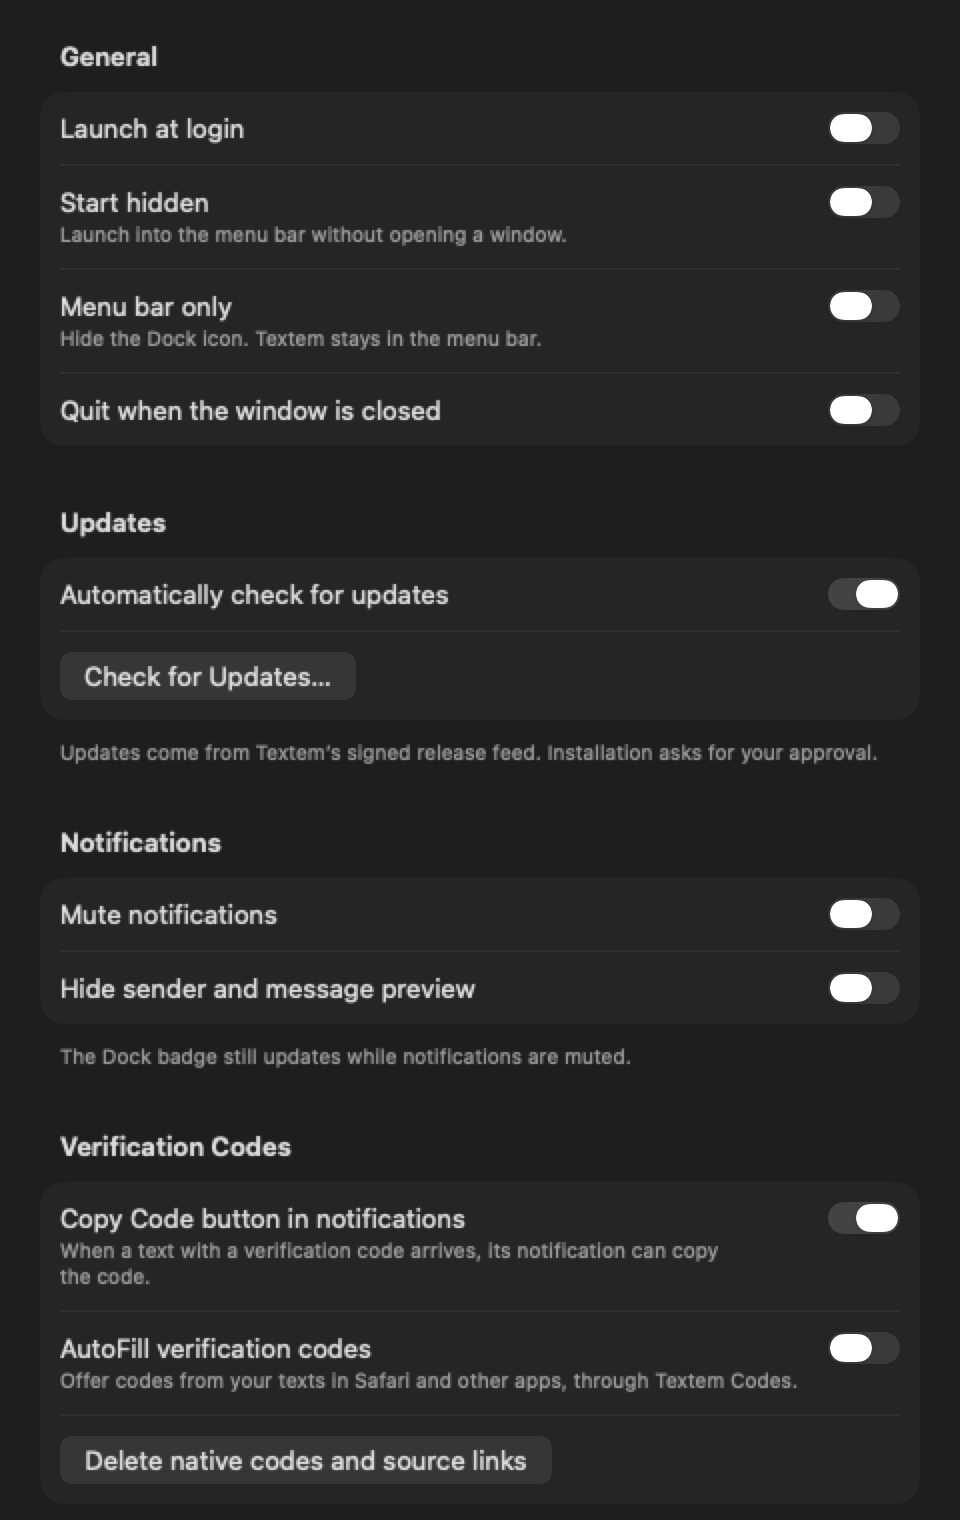
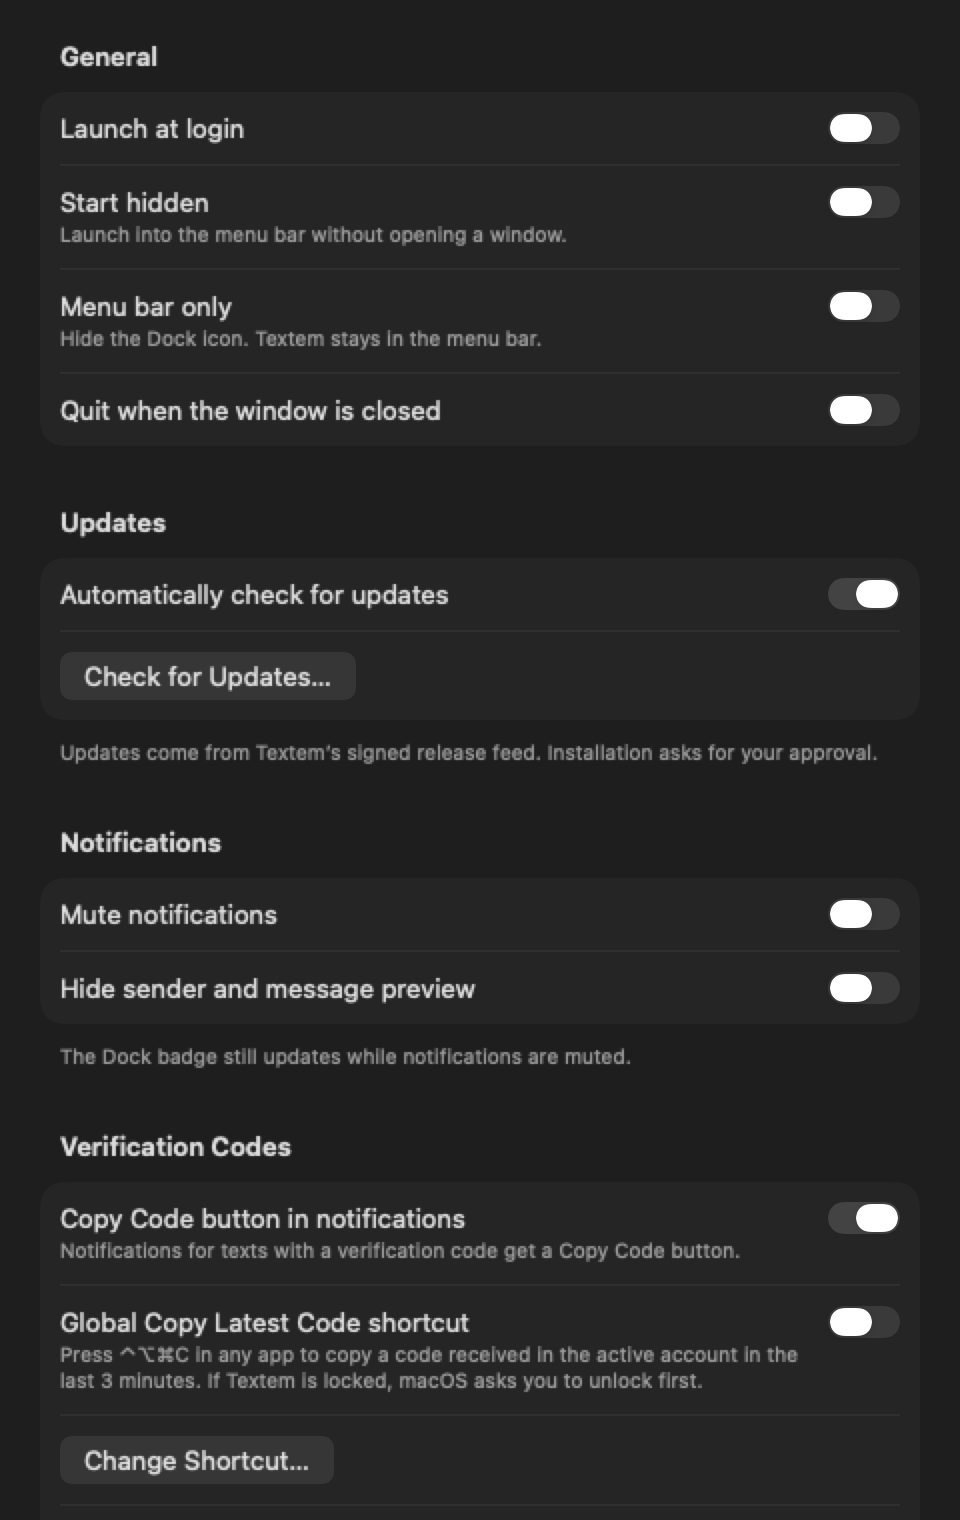
docs: describe the 1.0b5 App Lock changes (hold until 1.0b5 ships)

diff --git a/docs/docs/privacy-offline/index.html b/docs/docs/privacy-offline/index.html
@@ -19,8 +19,14 @@
 <ul><li><strong>Privacy &gt; Blur message previews</strong>: previews and messages are blurred until you hover over them.</li>
 <li><strong>Privacy &gt; Hide avatars</strong>: removes contact pictures.</li>
 <li><strong>Notifications &gt; Hide sender and message preview</strong>: banners say only "New message".</li></ul>
-<p>These change only what's shown on your Mac. Read receipts and what you send are unaffected.</p></section><section id="lock-the-textem-window"><h2>Lock the Textem window</h2><p>In <strong>Settings &gt; Privacy</strong>, turn on <strong>Require Touch ID or your Mac password to open Textem</strong>. Textem locks at launch and when your Mac sleeps or locks. You can also choose to lock immediately when you switch away, or after five minutes of inactivity in Textem.</p>
-<p>Choose <strong>Lock Textem</strong> from the app menu or the Textem menu-bar icon to lock immediately. On return, Textem can prompt for Touch ID. Use <strong>Use Mac Password…</strong> if macOS requires your password. Notification previews are hidden while locked. The lock protects the Textem window; your session and saved files rely on your Mac login and FileVault.</p></section><section id="what-textem-connects-to"><h2>What Textem connects to</h2><p>Textem shows Google's own Messages for web and talks to Google. It adds no analytics, telemetry, accounts or relay servers, and your session is stored on your Mac. The only other connection is the daily update check to textem.scarcrux.com, which you can turn off in <strong>Settings &gt; Updates</strong>. To keep Google's sign-in working inside an app, Textem turns off WebKit's cross-site tracking prevention for its own Google session; this doesn't affect Safari.</p></section><section id="offline-mode-experimental"><h2>Offline Mode <span class="badge">Experimental</span></h2><p><strong>View &gt; Offline Mode</strong> pauses Google Messages and shows what Textem has saved on this Mac. Choose <strong>Go Online</strong> to return. The choice is remembered across restarts.</p>
+<p>These change only what's shown on your Mac. Read receipts and what you send are unaffected.</p></section><section id="lock-the-textem-window"><h2>Lock the Textem window</h2><p>In <strong>Settings &gt; App Lock</strong>, turn on <strong>Require Touch ID or your Mac password to open Textem</strong> (on a Mac without Touch ID it asks for your Mac password). Textem locks at launch and when your Mac sleeps or locks. You can also choose to lock immediately when you switch away, or after five minutes of inactivity in Textem.</p>
+<p>Choose <strong>Lock Textem</strong> from the app menu or the Textem menu-bar icon to lock immediately. To unlock, choose <strong>Use Touch ID</strong>, or <strong>Use Mac Password…</strong> if macOS requires your password.</p>
+<p>While Textem is locked:</p>
+<ul><li>Its existing notifications are cleared, and new ones say only "Unlock Textem to see details."</li>
+<li>Locked notifications offer <strong>Reply</strong> (which asks you to unlock before sending) but not <strong>Copy Code</strong>, so a banner never reveals that a code arrived.</li>
+<li>The global copy-code shortcut asks macOS to unlock first, without bringing Textem to the front.</li>
+<li>The unread count in the Dock and menu bar stays visible.</li></ul>
+<p>The lock protects the Textem window. Your session and saved files rely on your Mac login and FileVault.</p></section><section id="what-textem-connects-to"><h2>What Textem connects to</h2><p>Textem shows Google's own Messages for web and talks to Google. It adds no analytics, telemetry, accounts or relay servers, and your session is stored on your Mac. The only other connection is the daily update check to textem.scarcrux.com, which you can turn off in <strong>Settings &gt; Updates</strong>. To keep Google's sign-in working inside an app, Textem turns off WebKit's cross-site tracking prevention for its own Google session; this doesn't affect Safari.</p></section><section id="offline-mode-experimental"><h2>Offline Mode <span class="badge">Experimental</span></h2><p><strong>View &gt; Offline Mode</strong> pauses Google Messages and shows what Textem has saved on this Mac. Choose <strong>Go Online</strong> to return. The choice is remembered across restarts.</p>
 <p>Today it shows phone history and pictures saved through Textem's developer Android companion; without the companion it's empty. Ordinary conversations aren't stored offline.</p></section><aside class="related"><h2>Related</h2><ul><li><a href="/docs/notifications/">Notifications and quick replies</a></li><li><a href="/docs/codes/">Verification codes</a></li><li><a href="/docs/troubleshooting/">Troubleshooting and updating</a></li></ul></aside></article></main><footer><p>Textem documentation · Updated 2026-11-24</p>
 <p>Unofficial. Not affiliated with, endorsed by, or sponsored by Google. “Google Messages” is a trademark of Google LLC.</p>
 <a href="/docs/">Documentation</a> · <a href="/">Back to Textem</a> · <a href="https://github.com/Scarcrux/Textem">GitHub</a> · <a href="https://github.com/Scarcrux/Textem/issues">Report a problem</a> · © 2026 <a href="https://scarcrux.com">Scarcrux LLC</a></footer></div></div>

diff --git a/docs/index.html b/docs/index.html
@@ -200,7 +200,7 @@
         <figure class="shot tall">
           <picture>
             <source srcset="media/settings-dark.png" media="(prefers-color-scheme: dark)">
-            <img src="media/settings-light.png" width="480" height="760" alt="Textem Settings: launch at login, start hidden, menu bar only, updates, notifications and verification codes">
+            <img src="media/settings-light.png" width="480" height="760" alt="Textem Settings: launch at login, start hidden, menu bar only, updates, notifications, and verification codes including the global copy-code shortcut">
           </picture>
           <figcaption>Textem’s Settings window.</figcaption>
         </figure>

diff --git a/tools/gen-docs.py b/tools/gen-docs.py
@@ -149,8 +149,14 @@ PAGES = {
 <li><strong>Notifications &gt; Hide sender and message preview</strong>: banners say only "New message".</li></ul>
 <p>These change only what's shown on your Mac. Read receipts and what you send are unaffected.</p>"""),
     ("Lock the Textem window", """
-<p>In <strong>Settings &gt; Privacy</strong>, turn on <strong>Require Touch ID or your Mac password to open Textem</strong>. Textem locks at launch and when your Mac sleeps or locks. You can also choose to lock immediately when you switch away, or after five minutes of inactivity in Textem.</p>
-<p>Choose <strong>Lock Textem</strong> from the app menu or the Textem menu-bar icon to lock immediately. On return, Textem can prompt for Touch ID. Use <strong>Use Mac Password…</strong> if macOS requires your password. Notification previews are hidden while locked. The lock protects the Textem window; your session and saved files rely on your Mac login and FileVault.</p>"""),
+<p>In <strong>Settings &gt; App Lock</strong>, turn on <strong>Require Touch ID or your Mac password to open Textem</strong> (on a Mac without Touch ID it asks for your Mac password). Textem locks at launch and when your Mac sleeps or locks. You can also choose to lock immediately when you switch away, or after five minutes of inactivity in Textem.</p>
+<p>Choose <strong>Lock Textem</strong> from the app menu or the Textem menu-bar icon to lock immediately. To unlock, choose <strong>Use Touch ID</strong>, or <strong>Use Mac Password…</strong> if macOS requires your password.</p>
+<p>While Textem is locked:</p>
+<ul><li>Its existing notifications are cleared, and new ones say only "Unlock Textem to see details."</li>
+<li>Locked notifications offer <strong>Reply</strong> (which asks you to unlock before sending) but not <strong>Copy Code</strong>, so a banner never reveals that a code arrived.</li>
+<li>The global copy-code shortcut asks macOS to unlock first, without bringing Textem to the front.</li>
+<li>The unread count in the Dock and menu bar stays visible.</li></ul>
+<p>The lock protects the Textem window. Your session and saved files rely on your Mac login and FileVault.</p>"""),
     ("What Textem connects to", """
 <p>Textem shows Google's own Messages for web and talks to Google. It adds no analytics, telemetry, accounts or relay servers, and your session is stored on your Mac. The only other connection is the daily update check to textem.scarcrux.com, which you can turn off in <strong>Settings &gt; Updates</strong>. To keep Google's sign-in working inside an app, Textem turns off WebKit's cross-site tracking prevention for its own Google session; this doesn't affect Safari.</p>"""),
     ("Offline Mode <span class=\"badge\">Experimental</span>", """

diff --git a/README.md b/README.md
@@ -121,6 +121,12 @@ In **Settings → Privacy** you can blur message previews (hover to read) and
 hide avatars; in **Settings → Notifications** you can hide the sender and text
 from notifications. These change only what's shown on your Mac.
 
+**Settings → App Lock** can require Touch ID or your Mac password to open
+Textem. It locks at launch and when your Mac sleeps or locks, and optionally
+when you switch away or after five minutes idle. While locked, Textem's
+notifications are cleared and new ones show no preview. The lock protects the
+window; your session on disk relies on your Mac login and FileVault.
+
 ### Offline Mode (experimental)
 
 **View → Offline Mode** pauses Google Messages and shows what Textem has saved
